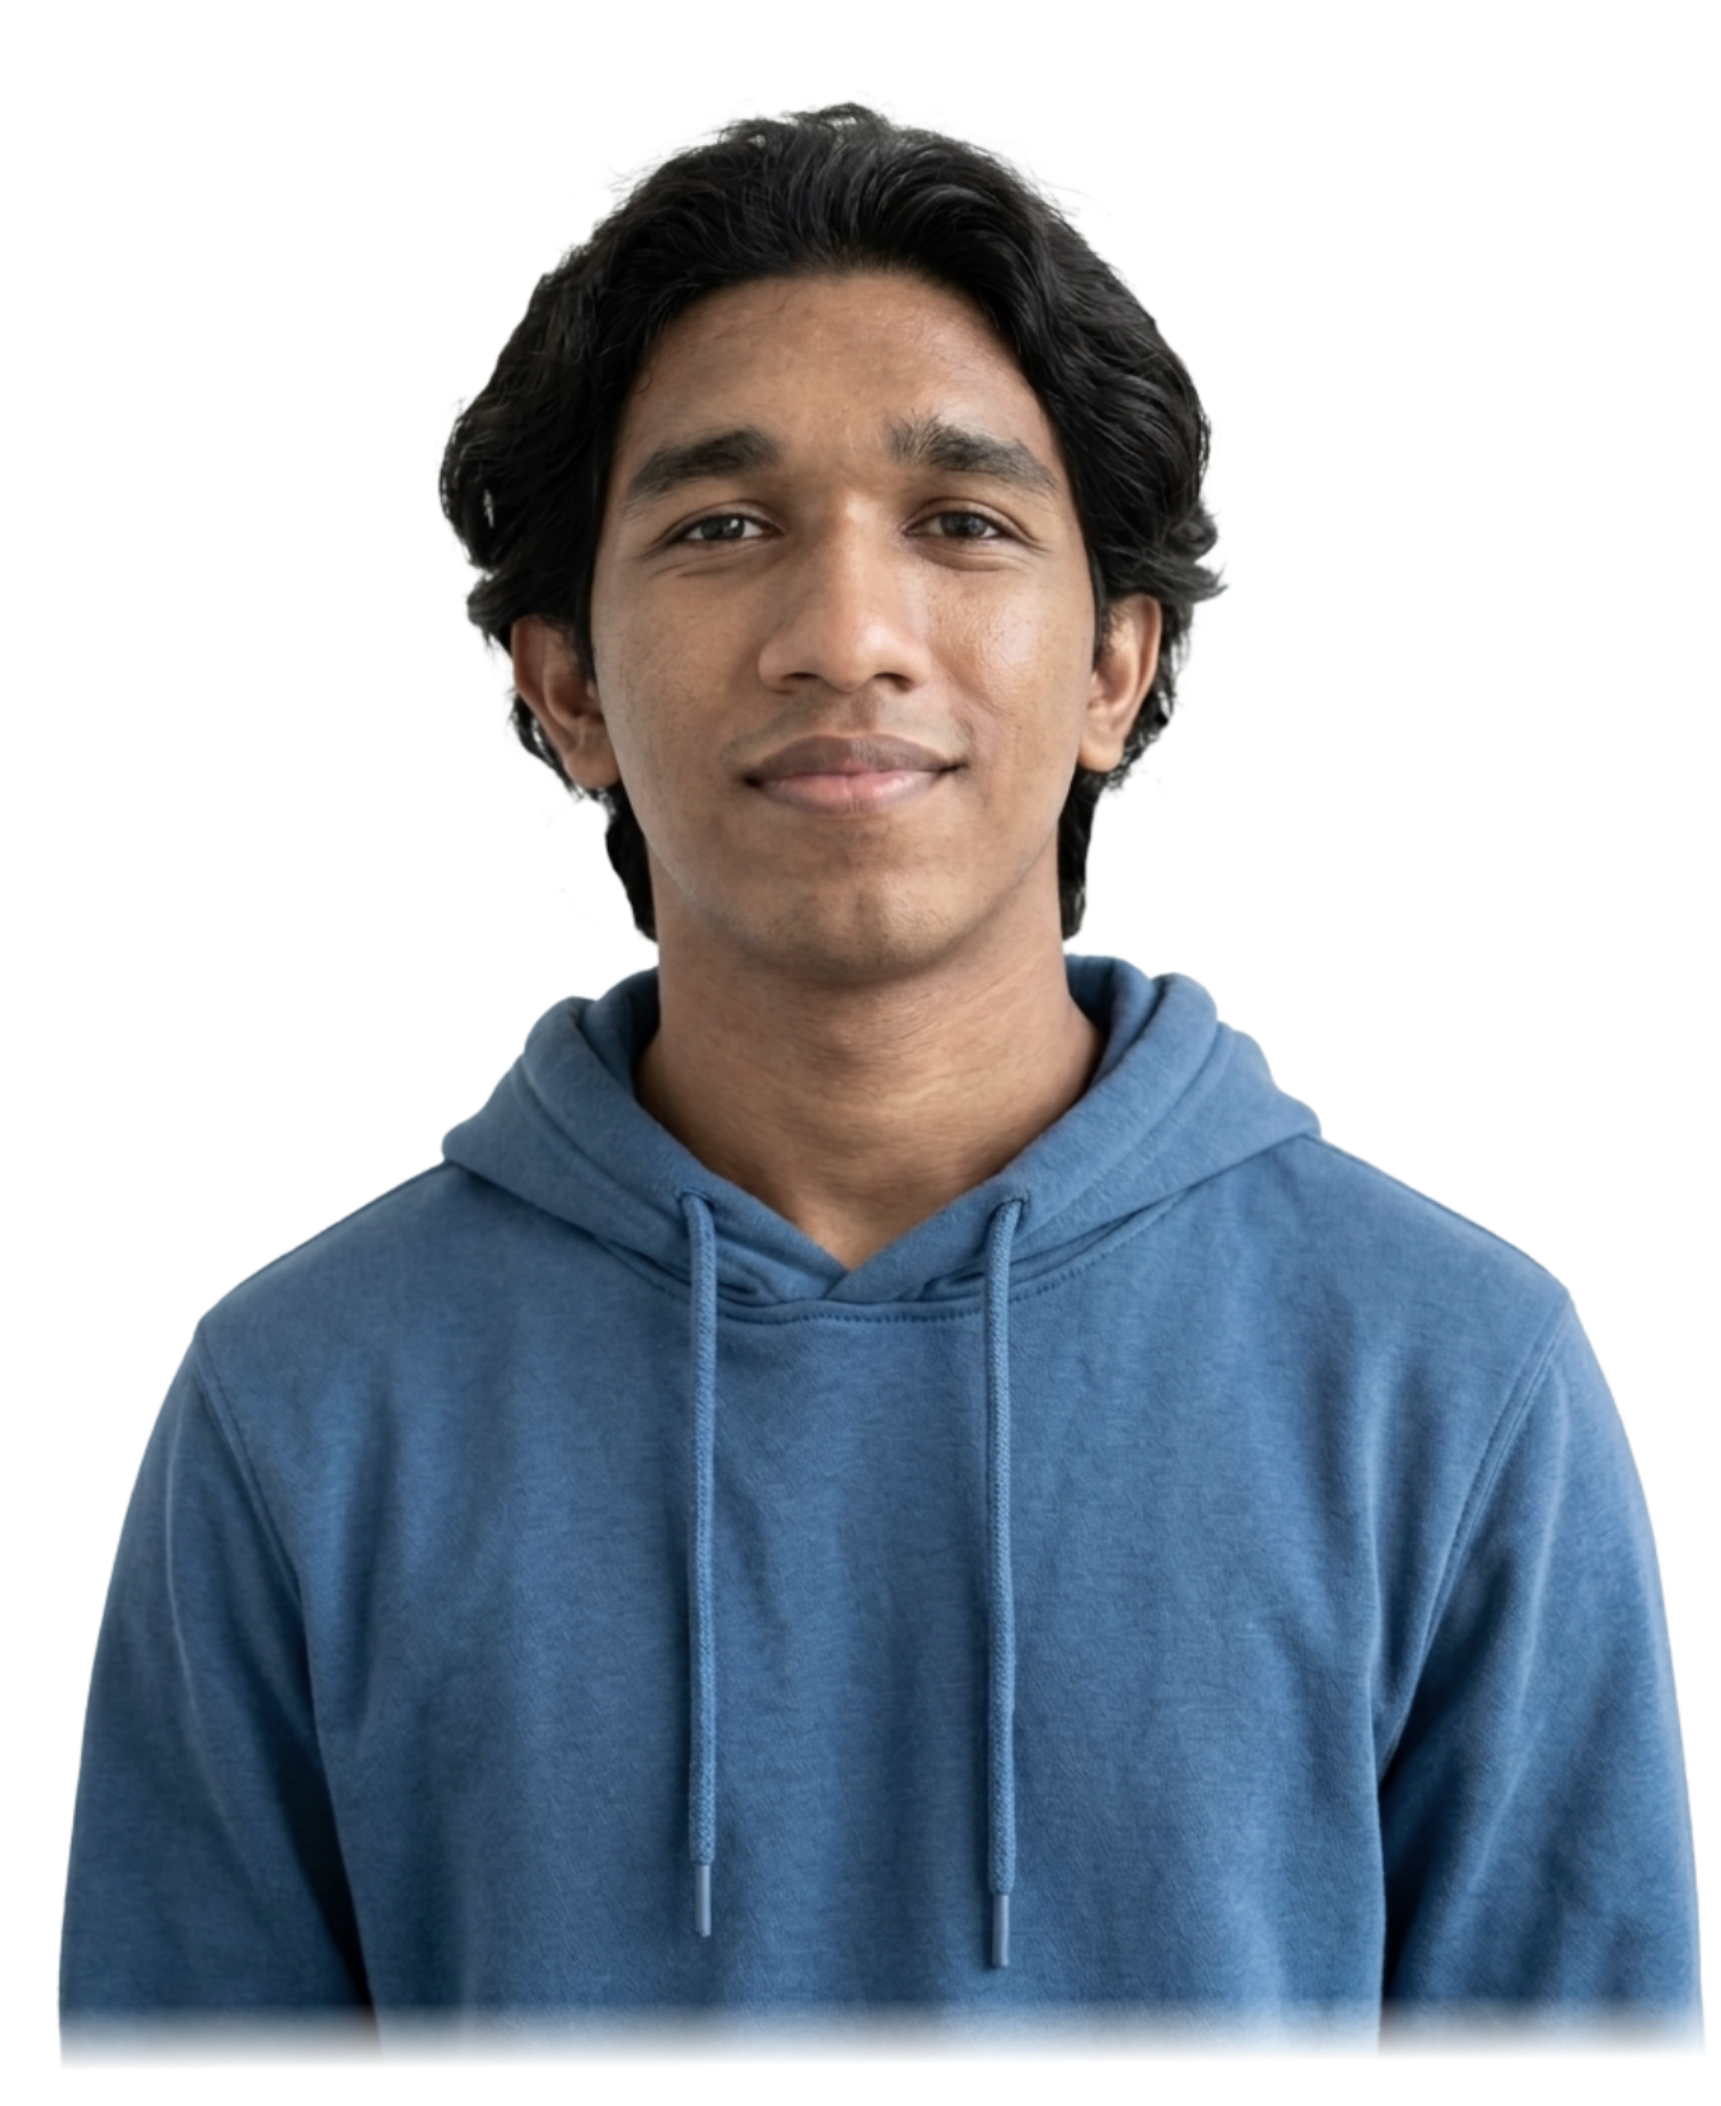
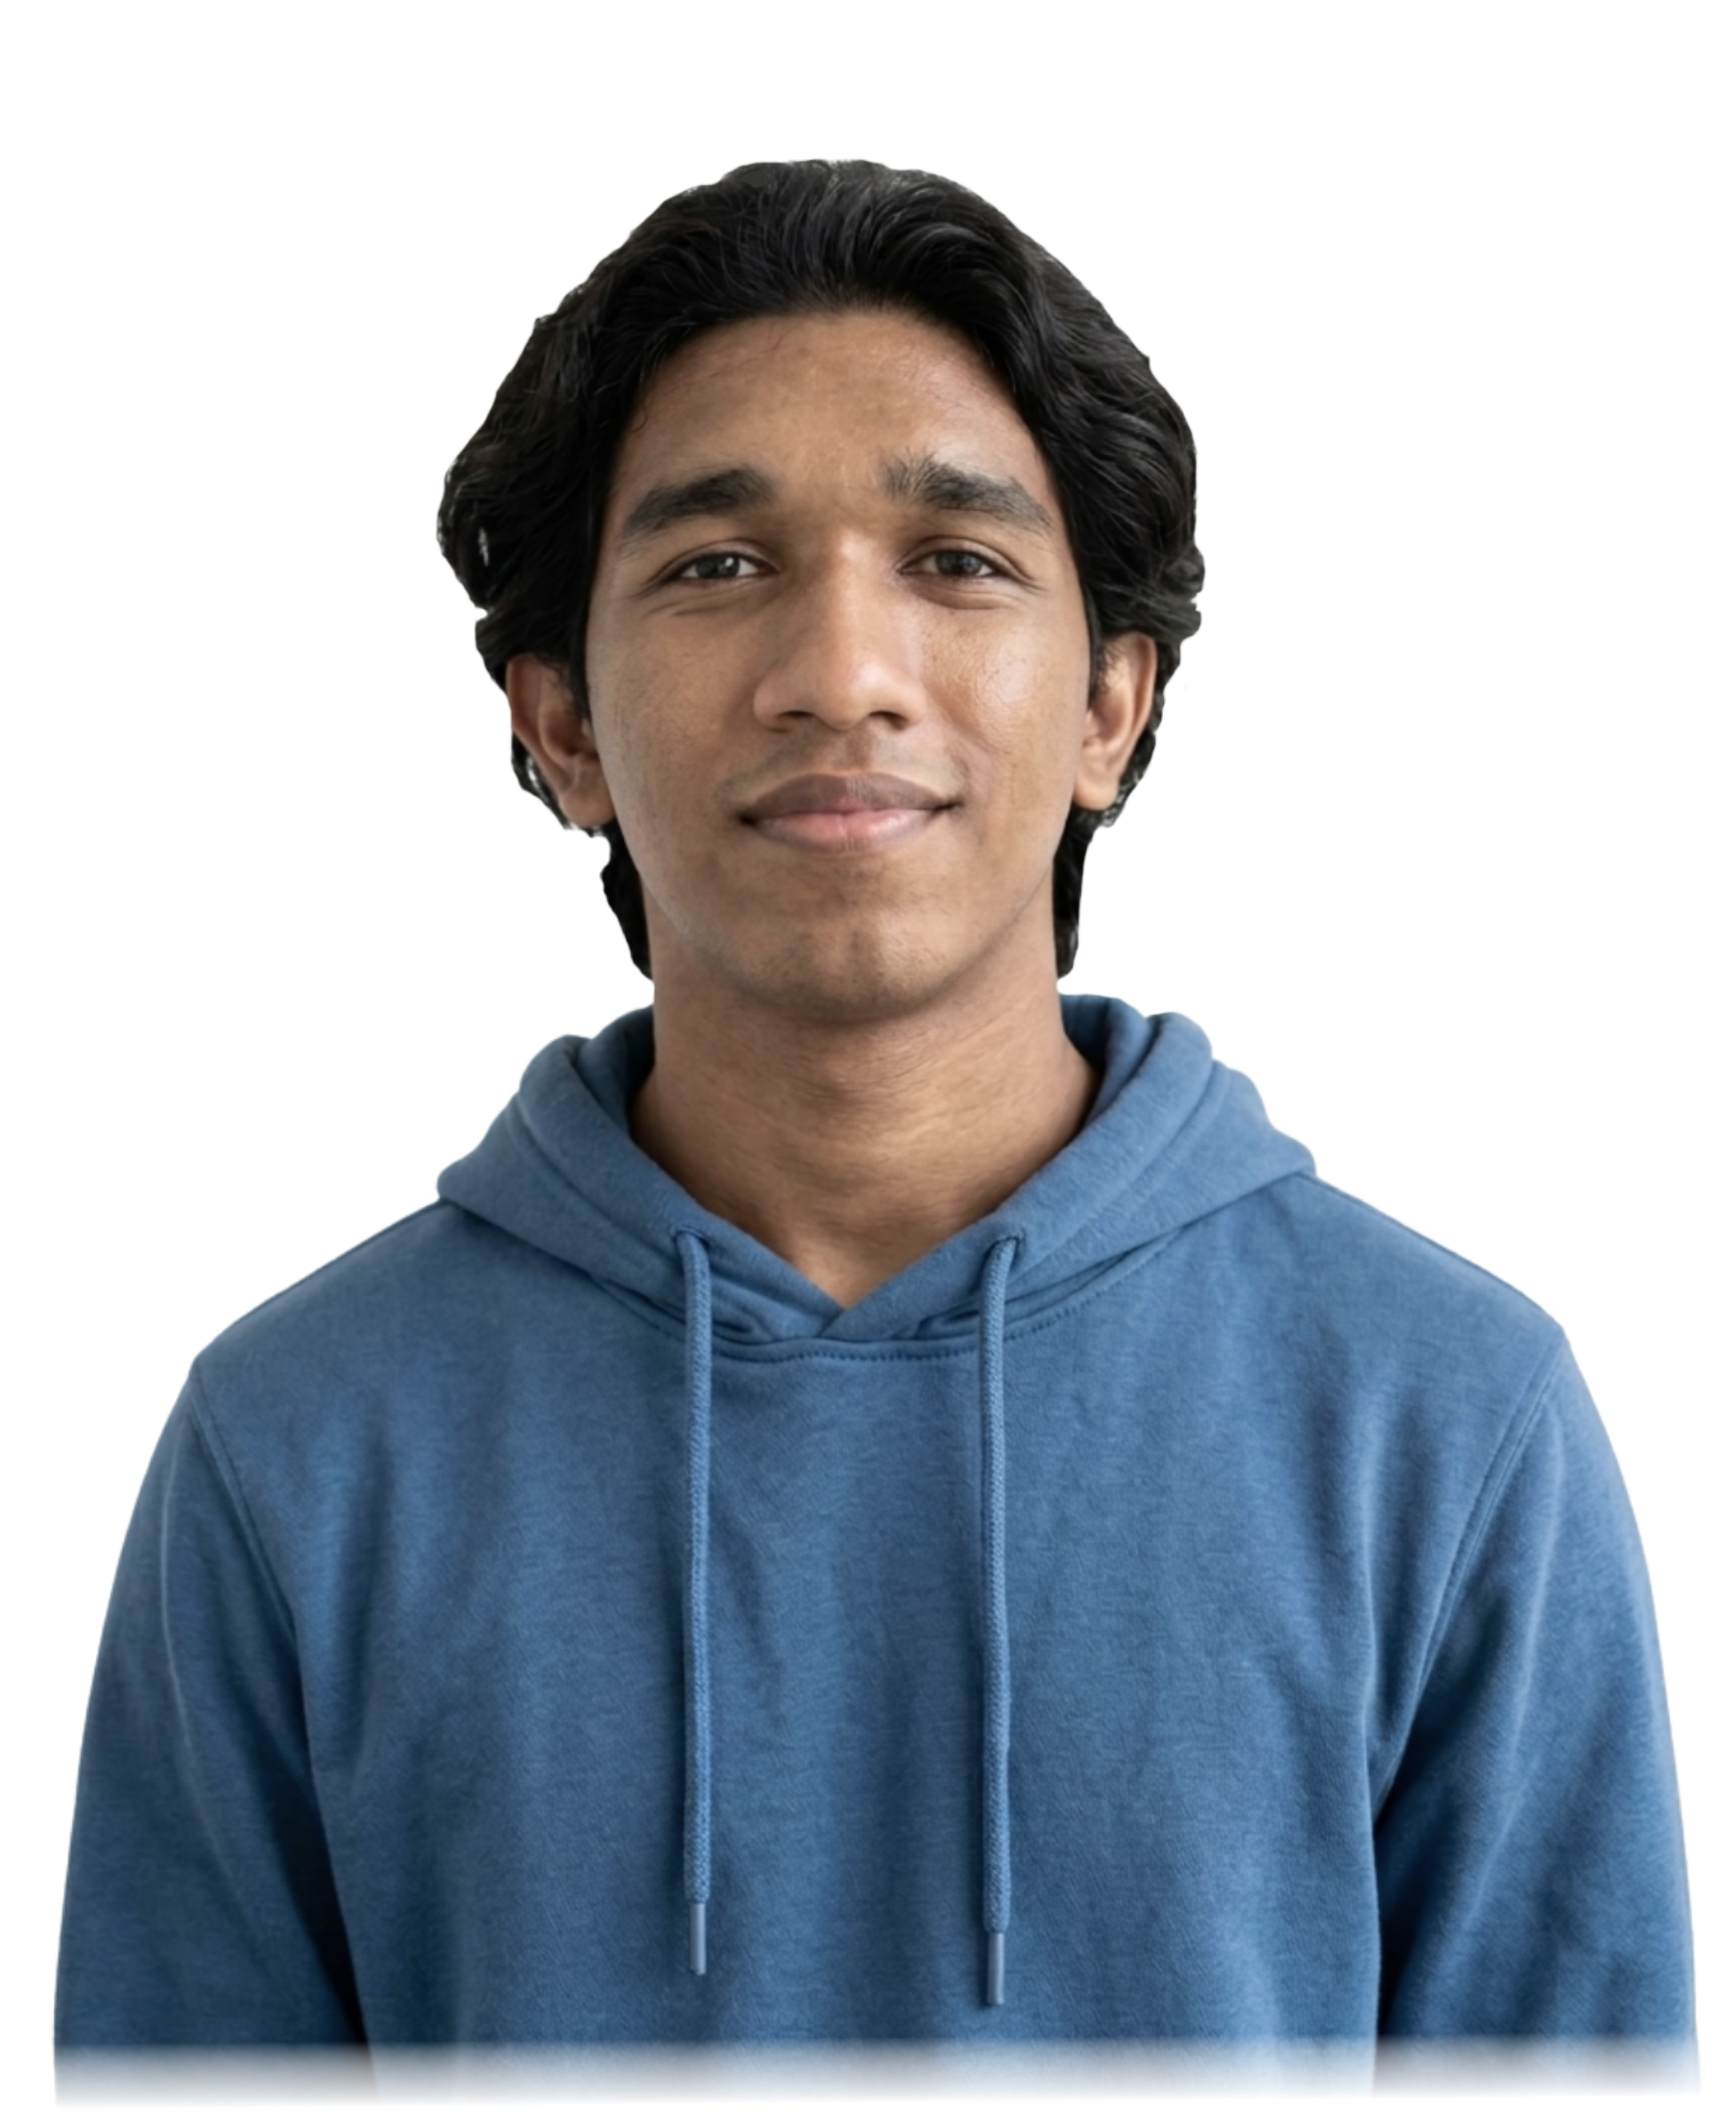
img3

diff --git a/Frontend/index.html b/Frontend/index.html
@@ -53,7 +53,7 @@
 
         <aside class="relative flex justify-center lg:justify-self-center mx-auto">
           <img
-            src="https://github.com/dulnethdms/Portfolio/blob/main/Images/Index.png?raw=true"
+            src="https://github.com/dulnethdms/Portfolio/blob/main/Images/Index%20main.png?raw=true"
             alt="Dulneth Damsira portrait"
             class="relative z-10 w-[22rem] md:w-[28rem] lg:w-[34rem] max-w-none object-cover"
           />
